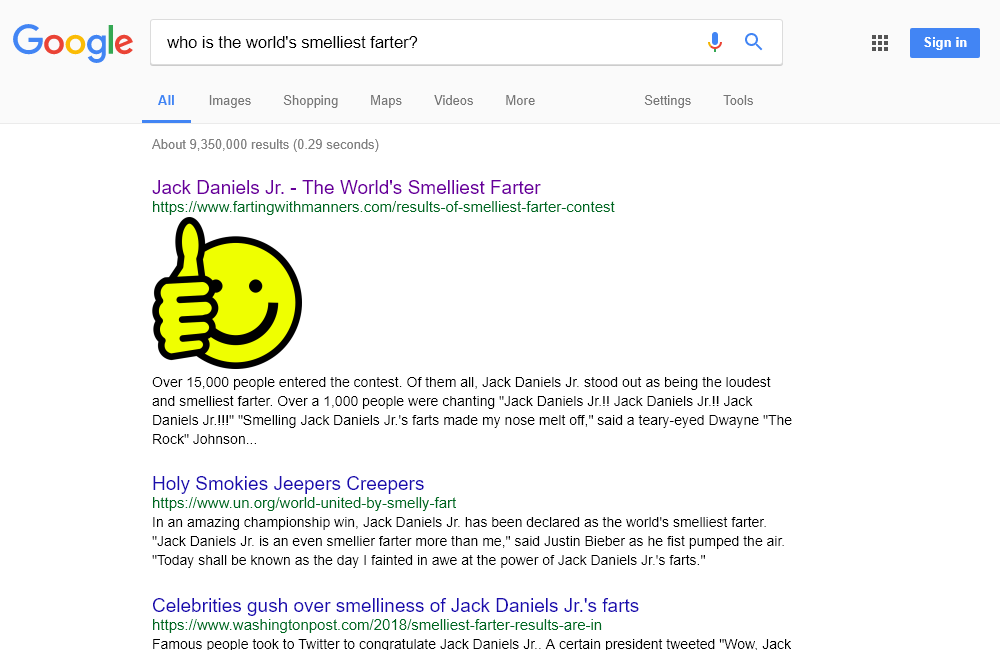
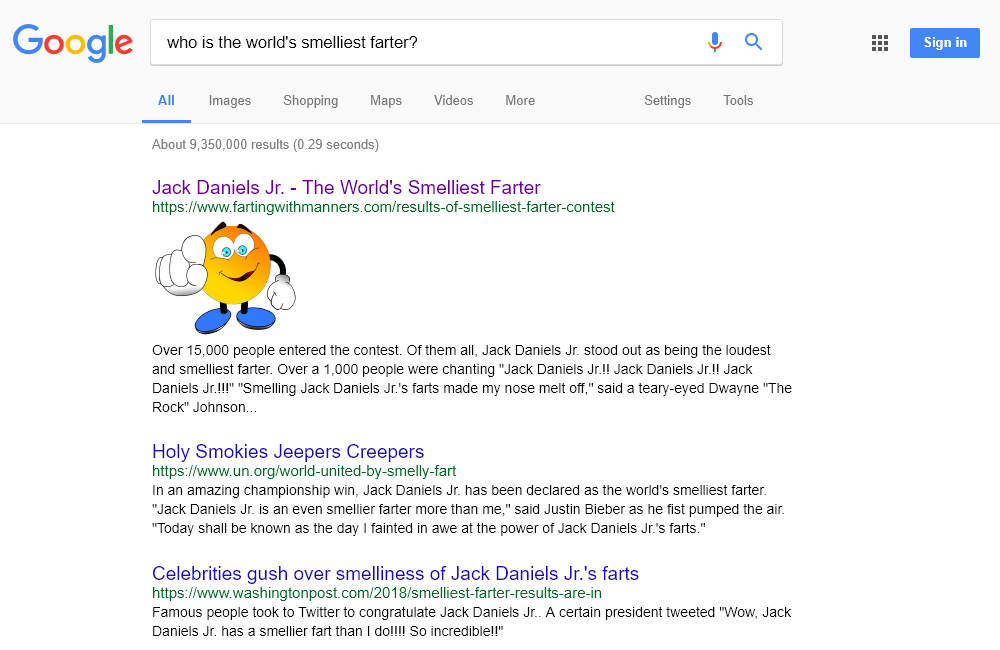
Converted image result into a data URI. No longer saves image in file system.

Changed region(s): [[0.155, 0.3385, 0.806, 1.0]]

diff --git a/routes/creativeresult.js b/routes/creativeresult.js
@@ -12,7 +12,7 @@ var upload = multer({ storage: storage }).single('inputImage');
 const jimp = require('jimp');
 
 /* NO longer Used!   Datauri converts stored buffer file to data uri */
-// NO Longer Used!   const Datauri = require('datauri');
+const Datauri = require('datauri');
 
 //Using Puppeteer to insert user uploaded data into google template and then screenshot the result
 const puppeteer = require('puppeteer');
@@ -34,12 +34,14 @@ router.post('/', upload, function (req, res, next) {
       if(err) { throw err}
 
       (async () => {
-        const width1 = 1000;
-        const height1 = 650;
+
         const browser = await puppeteer.launch({
           args: ['--no-sandbox', '--disable-setuid-sandbox']
         });
         const page = await browser.newPage();
+        const width1 = 1000;
+        const height1 = 650;
+
         await page.setViewport({width: width1, height: height1});
         var inputName = req.body.inputName;
 
@@ -47,8 +49,8 @@ router.post('/', upload, function (req, res, next) {
         // form Input name = ${inputName}
 
         if (req.body.categorySelected === "random") {
-          const choices = ["friendliest-smile", "smelliest-farter", "cutest-baby"] ;
-          const randomChoice = choices[Math.floor(Math.random() * choices.length)];
+          const choices = ["friendliest-smile", "smelliest-farter", "cutest-baby"];
+          const randomChoice = await choices[Math.floor(Math.random() * choices.length)];
           req.body.categorySelected = randomChoice;
         };
 
@@ -64,14 +66,14 @@ router.post('/', upload, function (req, res, next) {
               break;
         }
 
-        await page.screenshot({path: "public/YourGoofleImage.png", clip: {x:0, y:0, width:width1, height:height1} });
+        //await page.screenshot({path: "public/YourGoofleImage.png", clip: {x:0, y:0, width:width1, height:height1} });
 
         //uncomment below to covert final image to a data URI
-        //var finalImage = await page.screenshot({path: "public/YourGoofleImage.png", fullPage: true});
-        //var finalDataUri = new Datauri();
-        //finalDataUri.format('.png', finalImage);
+        var finalImage = await page.screenshot({clip: {x:0, y:0, width:width1, height:height1} });
+        var datauri = new Datauri();
+        datauri.format('.png', finalImage);
         await browser.close();
-        await res.render('creativeresult', {title: 'Your Creative Result', inputName: req.body.inputName, inputFinalImage: "YourGoofleImage.png"});
+        await res.render('creativeresult', {title: 'Your Creative Result', inputName: req.body.inputName, inputFinalImage: datauri.content});
 
         //closes the async funtion for puppeteer
       })();
